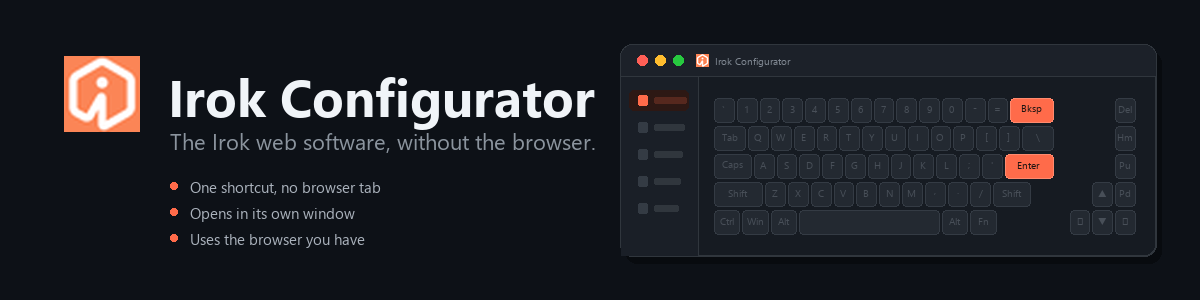
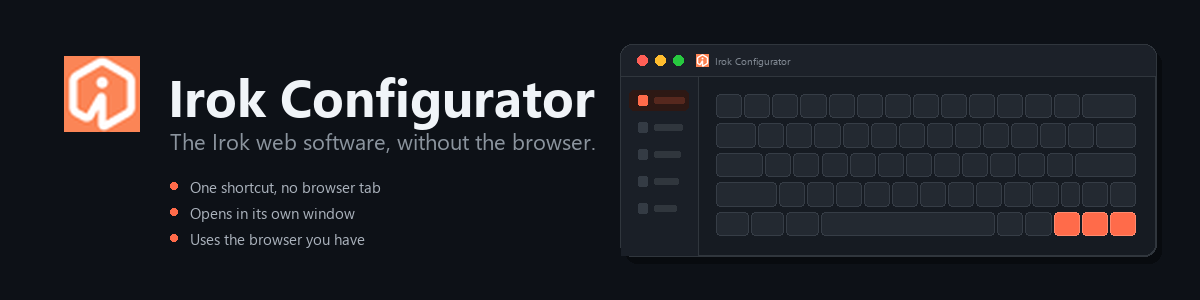
Match the key grid to the physical ND63 MAX
Rebuilt the keyboard from a photo of the board rather than a generic
65% layout, which was the source of the wrong key proportions.

The ND63 MAX is a 60% layout: five rows, 15u, with the arrows and Del
sitting inline at the right of rows 4 and 5. There is no separated nav
cluster. The previous version invented one, which forced the board to
18.6u and shrank every key to about 20px.

Right shift narrowed to 0.75u so row 4 lands on 15u, verified for all
five rows. Key height now derives from the unit so caps come out as
wide as they are tall, and the keycaps carry no legends. Board styling
ignored; the arrows are the only accented keys.

diff --git a/docs/make-hero.py b/docs/make-hero.py
@@ -1,8 +1,11 @@
 # Generates docs/hero.png, the banner shown at the top of the README.
 #
-# Layout is a real 65% board: 5 rows, 15u wide, with the navigation cluster
-# offset by a gap. Every row starts at the same x and keys advance by an exact
-# unit width, so the grid lines up instead of drifting row to row.
+# The key grid follows the physical Irok ND63 MAX: five rows, 15u wide, with the
+# arrow and navigation keys sitting inline at the right of rows 4 and 5 rather
+# than in a separated cluster. That is what makes the keys come out the right
+# size; adding a cluster gap would need ~18.6u and shrink every key.
+#
+# Keycaps are drawn empty, with no legends, and ignore the board's own styling.
 #
 # Rerun after replacing assets/irok.ico:
 #   python docs\make-hero.py
@@ -16,57 +19,51 @@ OUT = os.path.join(ROOT, "docs", "hero.png")
 
 W, H = 1200, 300
 
-# dark theme
 BG = (13, 17, 23)
-PANEL = (22, 27, 34)
 WIN = (22, 27, 34)
 WIN_BAR = (28, 33, 41)
 BORDER = (48, 54, 61)
-KEY = (35, 41, 49)
-KEY_EDGE = (52, 59, 68)
-KEY_ON = (255, 107, 74)
 SIDEBAR = (26, 31, 39)
-SIDE_TEXT = (72, 79, 88)
+KEY = (35, 41, 49)
+KEY_EDGE = (54, 61, 70)
+KEY_ON = (255, 107, 74)
+KEY_ON_EDGE = (255, 138, 110)
 INK = (240, 244, 248)
 MUTED = (139, 148, 158)
 ORANGE = (255, 107, 74)
 
 FONTS = r"C:\Windows\Fonts"
 
-# 65% layout. Each row is (main cluster, right cluster). Widths in units.
+# 15u per row, matching the board. Empty string means an unmarked modifier.
+# (width, key id or None)
 ROWS = [
-    ([("`", 1), ("1", 1), ("2", 1), ("3", 1), ("4", 1), ("5", 1), ("6", 1),
-      ("7", 1), ("8", 1), ("9", 1), ("0", 1), ("-", 1), ("=", 1), ("Bksp", 2)],
-     [("Del", 1)]),
-    ([("Tab", 1.5), ("Q", 1), ("W", 1), ("E", 1), ("R", 1), ("T", 1), ("Y", 1),
-      ("U", 1), ("I", 1), ("O", 1), ("P", 1), ("[", 1), ("]", 1), ("\\", 1.5)],
-     [("Hm", 1)]),
-    ([("Caps", 1.75), ("A", 1), ("S", 1), ("D", 1), ("F", 1), ("G", 1), ("H", 1),
-      ("J", 1), ("K", 1), ("L", 1), (";", 1), ("'", 1), ("Enter", 2.25)],
-     [("Pu", 1)]),
-    ([("Shift", 2.25), ("Z", 1), ("X", 1), ("C", 1), ("V", 1), ("B", 1),
-      ("N", 1), ("M", 1), (",", 1), (".", 1), ("/", 1), ("Shift", 1.75)],
-     [("\u25b2", 1), ("Pd", 1)]),
-    ([("Ctrl", 1.25), ("Win", 1.25), ("Alt", 1.25), ("", 6.25),
-      ("Alt", 1.25), ("Fn", 1.25)],
-     [("\u25c0", 1), ("\u25bc", 1), ("\u25b6", 1)]),
+    # row 1: Esc .. Backspace(2u)
+    [(1, None), (1, None), (1, None), (1, None), (1, None), (1, None),
+     (1, None), (1, None), (1, None), (1, None), (1, None), (1, None),
+     (1, None), (2, None)],
+    # row 2: Tab(1.5) .. backslash(1.5)
+    [(1.5, None), (1, None), (1, None), (1, None), (1, None), (1, None),
+     (1, None), (1, None), (1, None), (1, None), (1, None), (1, None),
+     (1, None), (1.5, None)],
+    # row 3: Caps(1.75) .. Enter(2.25)
+    [(1.75, None), (1, None), (1, None), (1, None), (1, None), (1, None),
+     (1, None), (1, None), (1, None), (1, None), (1, None), (1, None),
+     (2.25, "enter")],
+    # row 4: Shift(2.25) .. Shift(0.75), Up, Del. The right shift is narrower so
+    # the arrow and Del keys fit inline; that is what keeps the row at 15u.
+    [(2.25, None), (1, None), (1, None), (1, None), (1, None), (1, None),
+     (1, None), (1, None), (1, None), (1, None), (1, None), (0.75, None),
+     (1, "up"), (1, None)],
+    # row 5: Ctrl(1.25) Win Alt Space(6.25) Alt Fn arrows
+    [(1.25, None), (1.25, None), (1.25, None), (6.25, None), (1, None),
+     (1, None), (1, "left"), (1, "down"), (1, "right")],
 ]
 
-# keys drawn in the accent colour, addressed as (row, key label)
-ACCENT = {(0, "Bksp"), (2, "Enter")}
+ACCENT = {"left", "down", "right"}
 
 
 def font(name, size):
     return ImageFont.truetype(os.path.join(FONTS, name), size)
-
-
-def draw_key(d, x, y, w, h, label, f, fill, edge, text_fill):
-    d.rounded_rectangle((x, y, x + w, y + h), radius=4, fill=fill, outline=edge, width=1)
-    if not label:
-        return
-    bb = d.textbbox((0, 0), label, font=f)
-    tw, th = bb[2] - bb[0], bb[3] - bb[1]
-    d.text((x + (w - tw) / 2 - bb[0], y + (h - th) / 2 - bb[1]), label, font=f, fill=text_fill)
 
 
 def main():
@@ -78,34 +75,29 @@ def main():
     f_tag = font("segoeui.ttf", 22)
     f_tick = font("segoeui.ttf", 15)
     f_small = font("segoeui.ttf", 10)
-    f_side = font("segoeui.ttf", 11)
 
     img = Image.new("RGB", (W, H), BG)
     d = ImageDraw.Draw(img)
 
-    # ---------- left: icon, name, tagline, ticks ----------
+    # ---------- left ----------
     img.paste(icon_big, (64, 56), icon_big)
     d.text((168, 60), "Irok Configurator", font=f_title, fill=INK)
     d.text((170, 126), "The Irok web software, without the browser.", font=f_tag, fill=MUTED)
 
-    ticks = [
+    for i, t in enumerate([
         "One shortcut, no browser tab",
         "Opens in its own window",
         "Uses the browser you have",
-    ]
-    ty = 176
-    for t in ticks:
+    ]):
+        ty = 176 + i * 26
         d.ellipse((170, ty + 6, 177, ty + 13), fill=ORANGE)
         d.text((190, ty), t, font=f_tick, fill=(170, 178, 188))
-        ty += 26
 
-    # ---------- right: the app window ----------
+    # ---------- window ----------
     wx, wy, ww, wh = 620, 44, 536, 212
-    # drop shadow
     d.rounded_rectangle((wx + 5, wy + 7, wx + ww + 5, wy + wh + 7), radius=12, fill=(8, 11, 15))
     d.rounded_rectangle((wx, wy, wx + ww, wy + wh), radius=12, fill=WIN, outline=BORDER, width=2)
 
-    # titlebar
     d.rounded_rectangle((wx + 1, wy + 1, wx + ww - 1, wy + 32), radius=11, fill=WIN_BAR)
     d.rectangle((wx + 1, wy + 22, wx + ww - 1, wy + 32), fill=WIN_BAR)
     d.line((wx + 1, wy + 32, wx + ww - 1, wy + 32), fill=BORDER)
@@ -129,42 +121,36 @@ def main():
                                 fill=(45, 24, 20))
         d.rounded_rectangle((wx + 18, yy - 4, wx + 27, yy + 6), radius=2,
                             fill=ORANGE if i == 0 else (52, 59, 68))
-        d.rounded_rectangle((wx + 34, yy - 2, wx + 34 + (32 - i * 2), yy + 4), radius=2,
+        d.rounded_rectangle((wx + 34, yy - 2, wx + 34 + (30 - i * 2), yy + 4), radius=2,
                             fill=(86, 40, 30) if i == 0 else (48, 54, 61))
 
-    # ---------- keyboard grid ----------
-    kb_x = wx + sb_w + 16
+    # ---------- keyboard ----------
+    # Board is 15u wide. Key height is derived from the unit so the caps come out
+    # roughly as wide as they are tall, which is how the board reads in person.
+    kb_x = wx + sb_w + 18
     kb_w = (wx + ww - 18) - kb_x
-    gap_u = 0.6                                   # empty units before the nav block
-    main_u = 15                                   # main cluster is 15u on every row
-    nav_u = max(sum(w for _, w in nav) for _, nav in ROWS)
-    total_u = main_u + gap_u + nav_u
-    kh, gap = 28, 3
-    u = kb_w / total_u
+    gap = 3
+    u = kb_w / 15.0
+    kh = u * 0.94
+    board_h = len(ROWS) * kh + (len(ROWS) - 1) * gap
+    kb_y = body_top + (body_h - board_h) / 2
 
-    kb_y = body_top + (body_h - (len(ROWS) * kh - gap)) / 2
-    nav_x = kb_x + u * (main_u + gap_u)
-
-    for ri, (main, nav) in enumerate(ROWS):
-        y = kb_y + ri * kh
-        # main cluster: every row starts at the same x and advances by exact units
+    for ri, row in enumerate(ROWS):
+        y = kb_y + ri * (kh + gap)
         x = kb_x
-        for label, kw in main:
-            on = (ri, label) in ACCENT
-            draw_key(d, x, y, u * kw - gap, kh - gap, label, f_small,
-                     KEY_ON if on else KEY,
-                     (255, 138, 110) if on else KEY_EDGE,
-                     (28, 20, 18) if on else SIDE_TEXT)
-            x += u * kw
-        # nav cluster: right-aligned so its far edge lands on the board's edge
-        row_nav_u = sum(w for _, w in nav)
-        x = nav_x + u * (nav_u - row_nav_u)
-        for label, kw in nav:
-            draw_key(d, x, y, u * kw - gap, kh - gap, label, f_small, KEY, KEY_EDGE, SIDE_TEXT)
+        for kw, kid in row:
+            on = kid in ACCENT
+            w = u * kw - gap
+            h = kh - gap
+            d.rounded_rectangle(
+                (x, y, x + w, y + h), radius=4,
+                fill=KEY_ON if on else KEY,
+                outline=KEY_ON_EDGE if on else KEY_EDGE, width=1)
             x += u * kw
 
     img.save(OUT, "PNG", optimize=True)
     print("wrote", OUT, img.size)
+    print("key unit %.1fpx, cap %.1f x %.1f" % (u, u - gap, kh - gap))
 
 
 if __name__ == "__main__":
